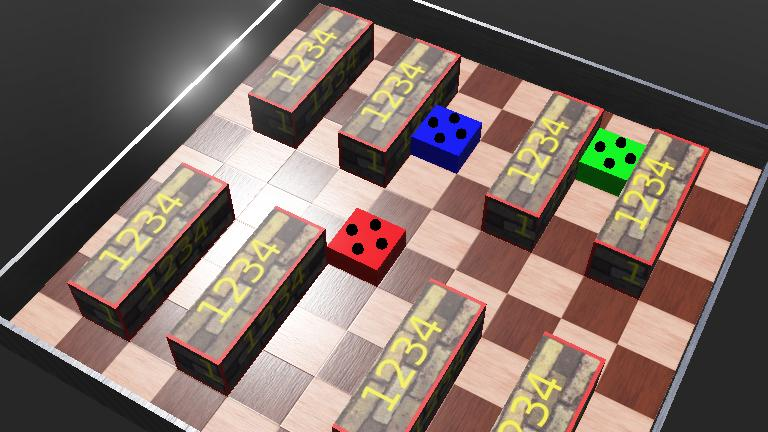
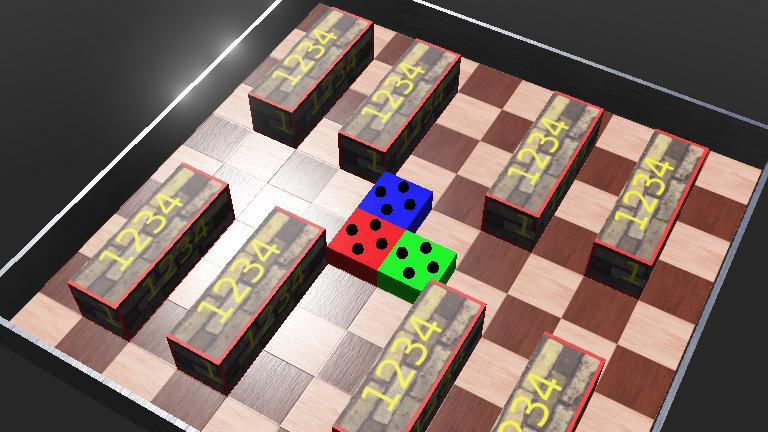
todays last commit

diff --git a/webots-world/controllers/bot-controller/bot-controller.py b/webots-world/controllers/bot-controller/bot-controller.py
@@ -22,27 +22,28 @@ MQTT_EMERGENCY_TOPIC = "TINCOS/protocol/emergency"
 ################ MQTT CONNECTION #################
 ##################################################
 
+client = mqtt_client.Client(MQTT_CLIENTID)
+
 def connect_mqtt() -> mqtt_client:
-    def on_connect(client, userdata, flags, rc):
-        if rc == 0:
-            print("Connected to MQTT Broker!")
-        else:
-            print("Failed to connect, return code %d\n", rc)
+    # def on_connect(client, userdata, flags, rc):
+        # if rc == 0:
+            # print("Connected to MQTT Broker!")
+        # else:
+            # print("Failed to connect, return code %d\n", rc)
 
     client = mqtt_client.Client(MQTT_CLIENTID)
     # client.username_pw_set(username, password)
-    client.on_connect = on_connect
+    # client.on_connect = on_connect
     client.connect(MQTT_BROKER, MQTT_PORT)
     return client
-
-def on_message(client, userdata, msg):
-    payload = msg.payload.decode()
-    topic = msg.topic
-    print(BOT_ID + " received `{payload}` from `{topic}` topic")
-    print(payload)
     
 def subscribe(client: mqtt_client):
-    
+    def on_message(client, userdata, msg):
+        payload = msg.payload.decode()
+        topic = msg.topic
+        # print(payload)
+        executeServerCommand(payload)
+    print("subscribe on "+MQTT_TOPIC)
     client.subscribe(MQTT_TOPIC)
     client.on_message = on_message
 
@@ -56,13 +57,13 @@ print("Robot '"+str(BOT_ID)+"' started")
 # Set start and target positions
 if (BOT_ID == "bot1"):
     start_pos = [0, 0, 0]
-    target_pos = [-0.3, 0.4, 0]
 if (BOT_ID == "bot2"):
-    start_pos = [0.3, 0.4, 0]
-    target_pos = [-0.2, 0.4, 0]
+    start_pos = [0.1, 0.0, 0]
 if (BOT_ID == "bot3"):
-    start_pos = [0.0, 0.3, 0]
-    target_pos = [0, -0.3, 0]
+    start_pos = [0.0, 0.1, 0]
+
+trans = supervisorNode.getField("translation")
+trans.setSFVec3f(start_pos)
 
 STEP = 0.1
 # get the time step of the current world
@@ -83,9 +84,6 @@ DS_E.enable(timestep)
 DS_S.enable(timestep)
 DS_W.enable(timestep)
 
-trans = supervisorNode.getField("translation")
-# trans.setSFVec3f(supervisorNode.getField("startpoint"))
-trans.setSFVec3f(start_pos)
     
 client = connect_mqtt()
 subscribe(client)
@@ -169,31 +167,46 @@ def createRequest():
 def goTo(targetLocation):
     x = targetLocation["x"]
     y = targetLocation["y"]
-    trans.setSFVec3f([x, y, 0])
+    current_pos = supervisorNode.getPosition()
+    
+    # double check if targetLocation is free
+    if(targetLocation in calcuateObstacles()):
+        # do nothing
+        print("WARNING! BOT wanted to collide with obstacle")
+    else:
+        print(BOT_ID+" location change")
+        trans.setSFVec3f([x, y, 0])
 
+def executeServerCommand(payload):
+    request = json.loads(payload)
+    if (request["protocolVersion"] == 2.0):
+        data = request["data"]
+
+        if (data["target"] == BOT_ID):
+            sender = data["sender"]
+
+            targetLocation = data["msg"]["targetLocation"]
+
+            goTo(targetLocation)
+            
+        # else:
+        #     print("Recieved message that wasn't addressed to me.")
+    else:
+        if(request["protocolVersion"] < 2.0):
+            print("WARNING! Deprecated protocol was used.")
+        else:
+            print("ERROR! Didn't understand syntax of request bot.")
+
+client = connect_mqtt()
+subscribe(client)
+    
 # execute every second
 while robot.step(duration) != -1:
     current_pos = supervisorNode.getPosition()
-    # print(createRequest())
-    # client.publish(MQTT_TOPIC, createRequest())
-    
-    # print(BOT_ID + " DS N: " + str(DS_N.getValue()))
-    # print(BOT_ID + " DS E: " + str(DS_E.getValue()))
-    # print(BOT_ID + " DS S: " + str(DS_S.getValue()))
-    # print(BOT_ID + " DS W: " + str(DS_W.getValue()))
-    
-    if(target_pos == current_pos):
-        print(BOT_ID + " arrived at target position.")
-    
-    # get handle to translation field
-    # trans = supervisorNode.getField("translation")
-    # set position ; pos is a list with 3 elements : x , y and z coordinates
-    
-    # target_pos = supervisorNode.getField("endpoint")
-    # new_pos = [getCloser(current_pos[0], target_pos[0]), getCloser(current_pos[1], target_pos[1]), 0]
-    # trans.setSFVec3f(new_pos)
     
     updateLEDS()
+    client.publish(MQTT_TOPIC, createRequest())
+    client.loop(timeout=0.01, max_packets=1)
     
     
     

diff --git a/server.py b/server.py
@@ -29,7 +29,7 @@ for x in range(fieldSize):
 bots = []
 bots = ["bot1", "bot2", "bot3"] # hardcoded bot to assign targest, while there is no dashboard
 
-targetFields = [[0, 2], [0, 0], [8, 0]]
+targetFields = [[0, 0], [9, 9], [0, 0]]
 
 def coords2fieldId(coords):
     # from Webots coördinates to field index
@@ -39,8 +39,12 @@ def coords2fieldId(coords):
 
 def fieldId2coords(fieldId):
     # from Webots coördinates to field index
-    x = (fieldId[0] / 10) - 0.4
-    y = (fieldId[1] / 10) - 0.4
+    try:
+        x = (fieldId[0] / 10) - 0.4
+        y = (fieldId[1] / 10) - 0.4
+    except KeyError:
+        x = Null
+        y = Null
     return {"x": round(x,1), "y": round(y,1)}
 
 def printFields():
@@ -137,7 +141,10 @@ def processCommand(payload):
             obstacles = data["msg"]["obstacles"]
 
             # process location in memory
-            target = processLocation(sender, currentLocation, obstacles)
+            try:
+                target = processLocation(sender, currentLocation, obstacles)
+            except IndexError:
+                target = currentLocation
             
             response = {
                 "data": 
